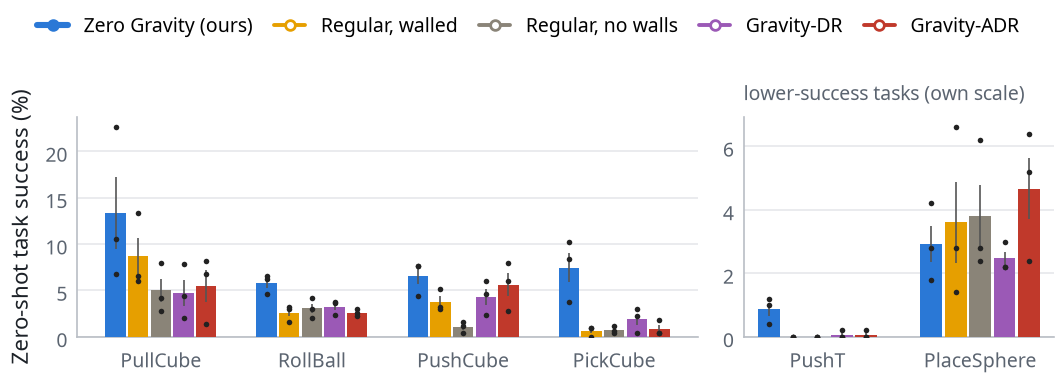
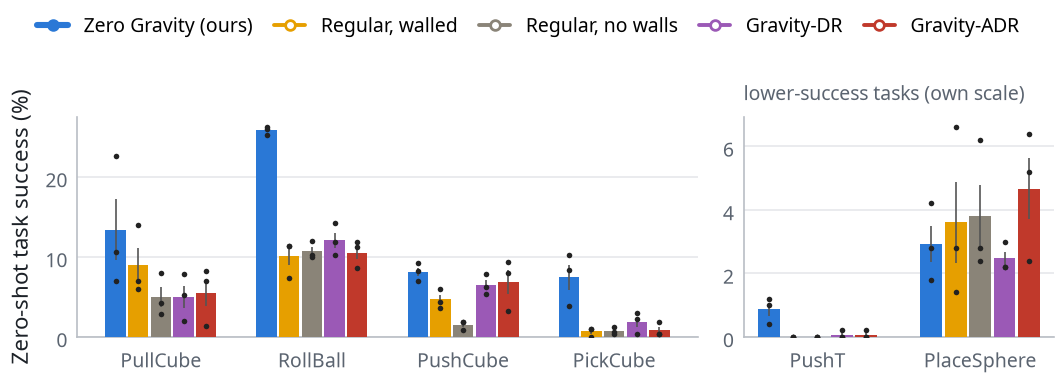
Report raw task success (mean over tasks) in per-task caption; raw-success figure
Claude-Session: https://claude.ai/code/session_01UjkjnsmNTetpR5MXkkNTSc

diff --git a/index.html b/index.html
@@ -170,8 +170,9 @@
   <figure class="fig">
     <img src="static/images/fig_stages_by_task.png" alt="Per-task staged curves for six tasks." loading="lazy">
     <figcaption><b>Zero-shot staged performance per task</b> (all heights). Ahead at the reach and touch stages on five of
-      six tasks; on RollBall the policies are close. Zero-shot task success is low for every policy, because the variants
-      add a step no expert was trained for (bringing the object off its support).</figcaption>
+      six tasks; on RollBall the policies are close. Zero-shot task success is low for every policy (9.8% for zero gravity vs. 3.6&ndash;4.8% for the
+      baselines, mean over tasks), because the variants add a step no expert was trained for (bringing the object off its
+      support).</figcaption>
   </figure>
 
   <h3>They adapt faster to spatially harder tasks</h3>
